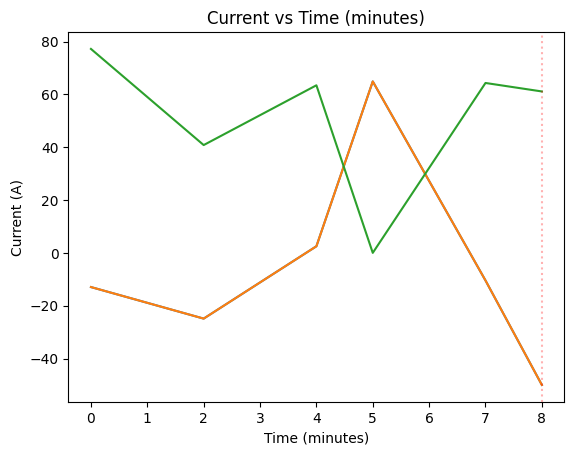
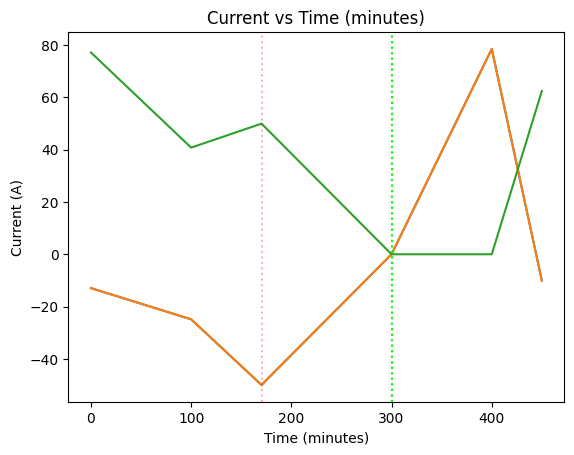
Fix current conversion calculation

diff --git a/PySpice/simulation_over_time.py b/PySpice/simulation_over_time.py
@@ -34,19 +34,20 @@ def start_voyage(circuit_config_loc: str, voyage_config_loc: str, save_path: str
     analysis, result = begin_simulation(circuit, component_object, errors, ngspice_available)
     results.append(result)
     
-    for segment_idx in range(len(segments)):
+    segment_length = len(segments)
+    for segment_idx in range(segment_length):
+        print("time lis",time_range_min)
+        """ print("len", segment_length)
         
-        print(time_range_min)
         print(battery_capacity_list)
         for each in segments:
             print(json.dumps(each, indent=4))
-        print("\n\n\n")
+        print("\n\n\n") """
         segment = segments[segment_idx]
         
         duration_minutes = segment['duration_minutes']
         throttle_setting = segment['throttle']
         panel_power_setting = segment['solar_power']
-        
         modifications = {}
 
         modifications['battery_voltage'] = estimate_battery_voltage(current_soc, battery_min_voltage, battery_max_voltage)
@@ -61,24 +62,29 @@ def start_voyage(circuit_config_loc: str, voyage_config_loc: str, save_path: str
 
         #if result[battery discharge] * voyage time > current capacity, 
         # calculate how huch time to reach 0, remainding time of the segment modify to 0 discharge
-        discharge_current_Ah = -result["summary"]["data"][0]["current"]["total_battery_input_current"]
+        discharge_current_A = -result["summary"]["data"][0]["current"]["total_battery_input_current"]
         
-        print(current_capacity_Amin, discharge_current_Ah, duration_minutes)
-        print()
+        """ print(current_capacity_Amin, discharge_current_A, duration_minutes)
+        print() """
         # use summary res
         
-        if current_capacity_Amin - (discharge_current_Ah * 60 * duration_minutes) <= 0: 
-            minues_to_empty = (current_capacity_Amin / (discharge_current_Ah * 60))
-            segments[segment_idx]["duration_minutes"] -= minues_to_empty
+        print(current_capacity_Amin, discharge_current_A, duration_minutes)
+        if current_capacity_Amin > 0 and (current_capacity_Amin - discharge_current_A * duration_minutes <= 0): 
+            minues_to_empty = current_capacity_Amin / discharge_current_A
             
+            print("to change",duration_minutes, minues_to_empty)
+            copy = deepcopy(segments[segment_idx])
+            copy["duration_minutes"] = duration_minutes - minues_to_empty
+            segments.insert(segment_idx + 1, copy)
+            segment_length += 1      
+                  
             current_capacity_Amin = 0
             current_soc = 0
             
             results.append(result)
             time_range_min.append(time_range_min[-1] + minues_to_empty)
-            segment_idx -= 1
         else:
-            current_capacity_Amin -= discharge_current_Ah * 60 * duration_minutes
+            current_capacity_Amin -= discharge_current_A * duration_minutes
             current_soc = (current_capacity_Amin / battery_capacity_Amin)
             print('current soc:', current_soc)
             
